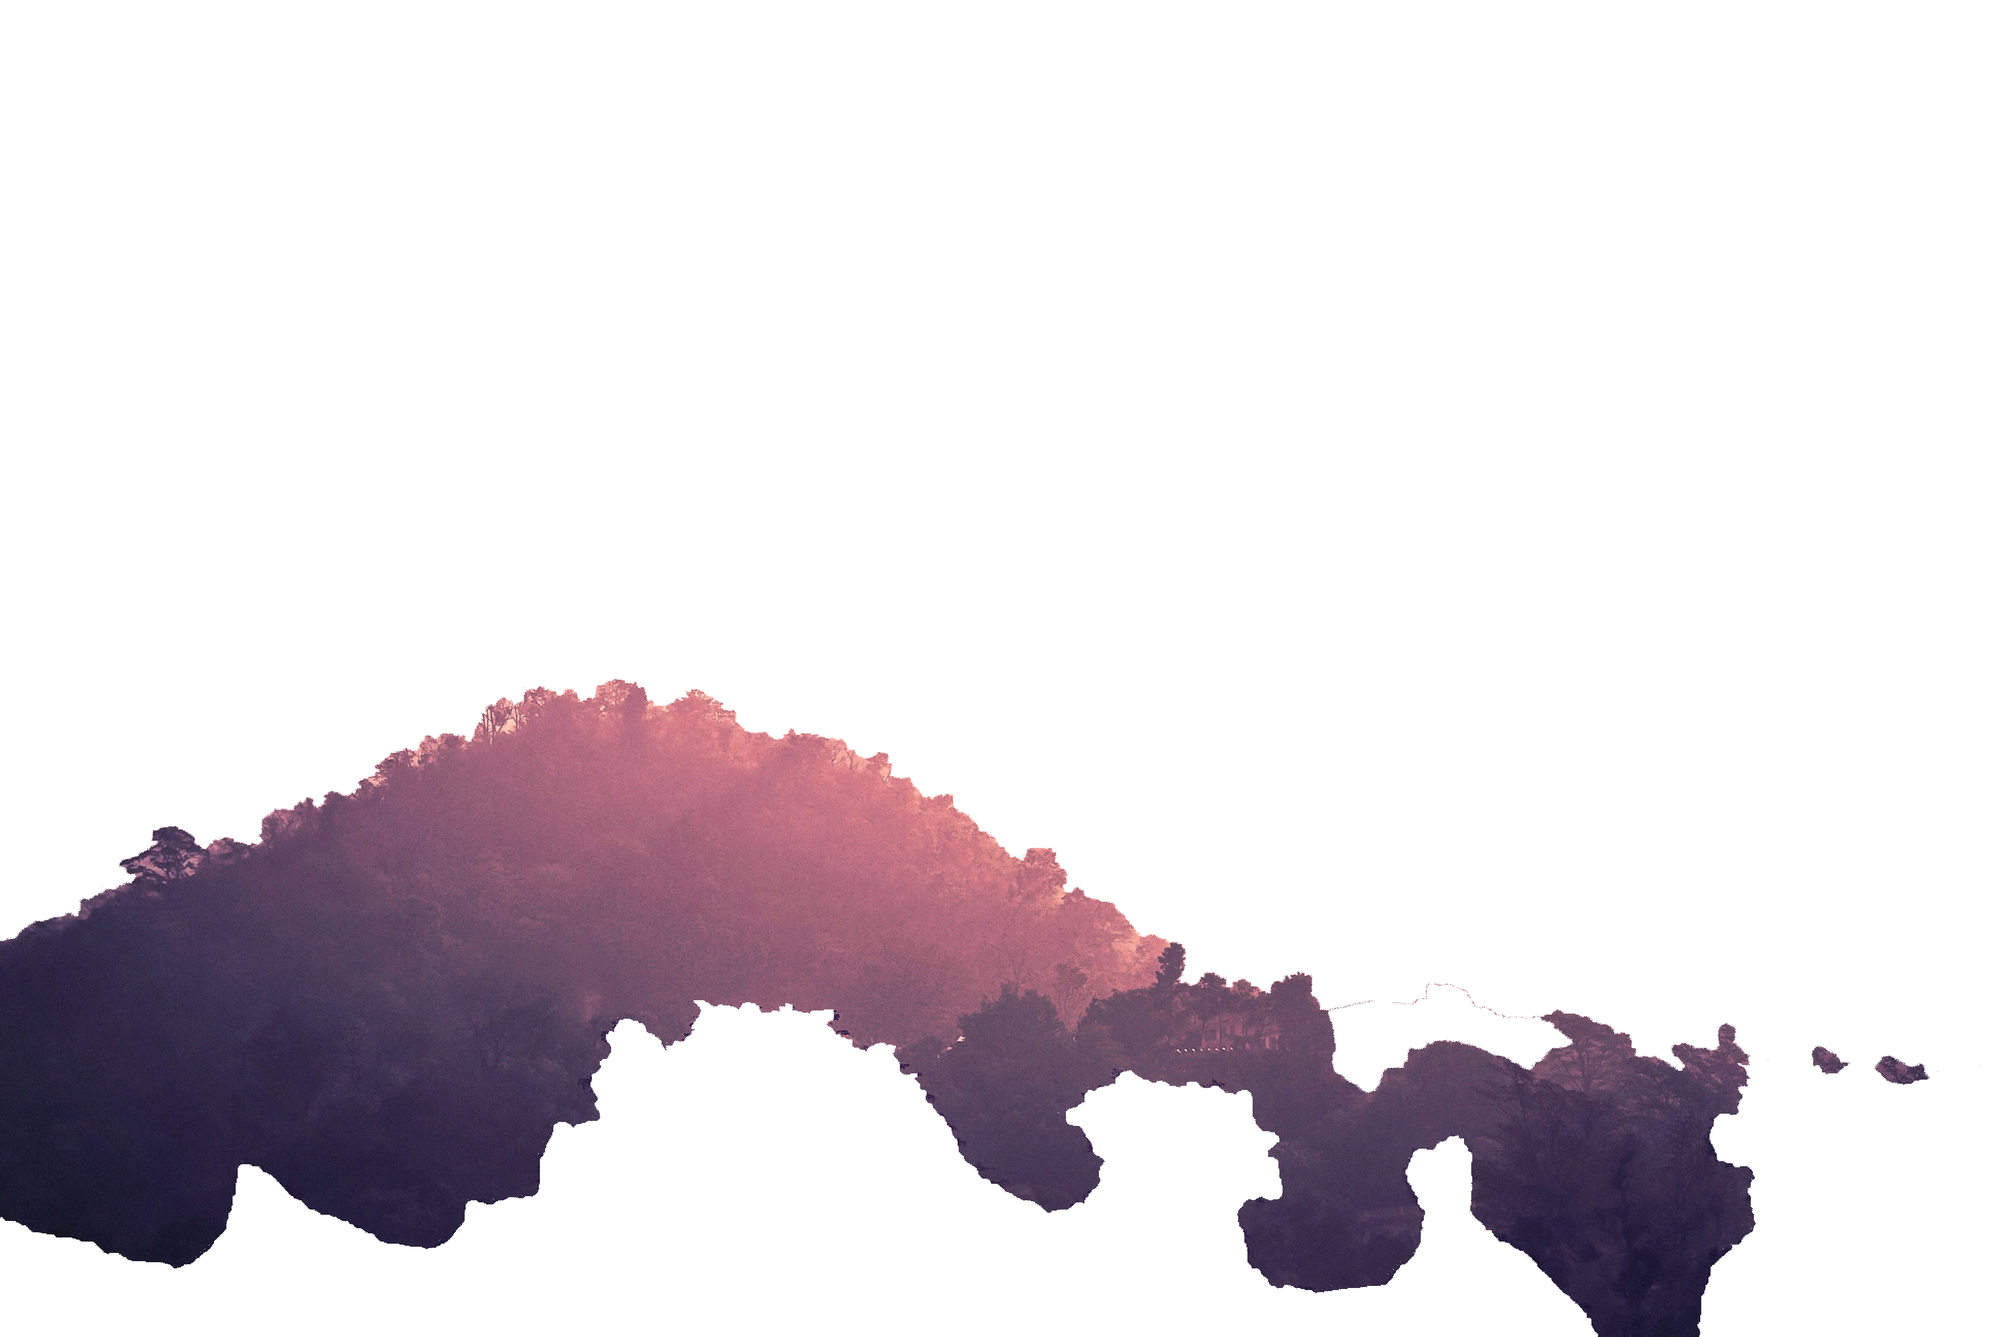
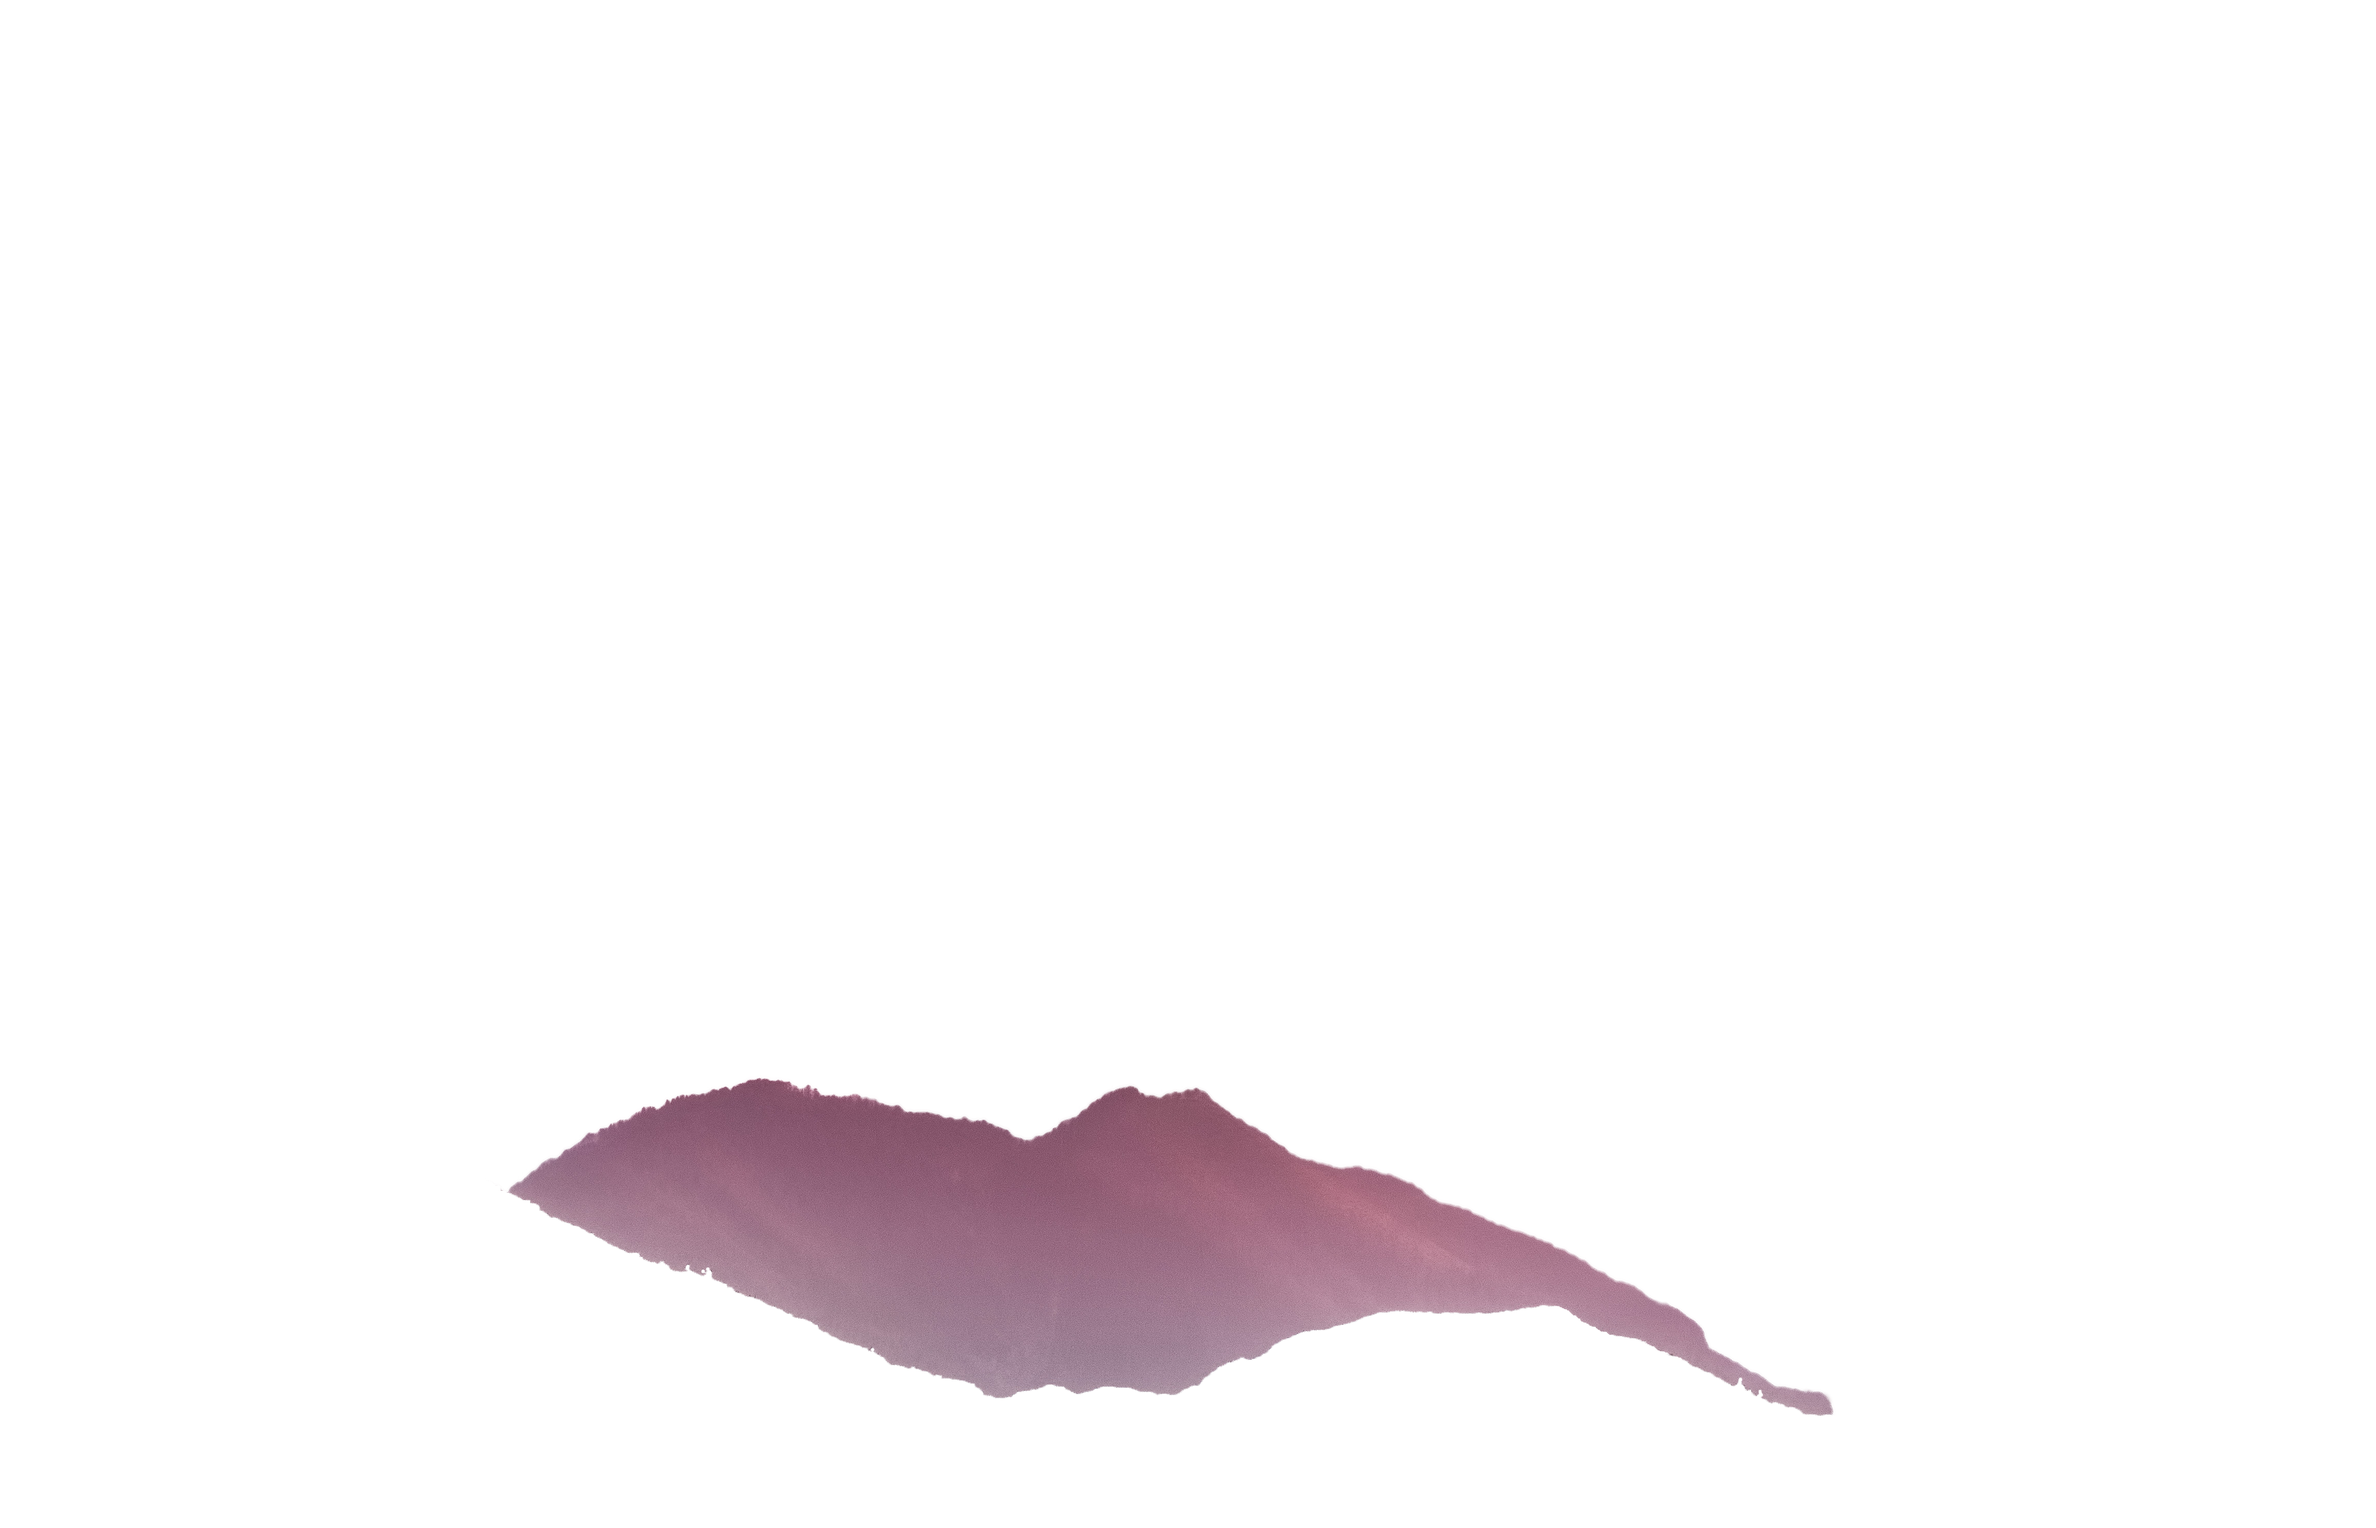
image positioning fixed

Changed region(s): [[0.0, 0.5, 0.8714, 1.0], [0.9025, 0.7812, 0.9648, 0.8125]]

diff --git a/test.css b/test.css
@@ -4,12 +4,12 @@
 
 html,
 body {
-  background-color: #fedcc8;
+  background-color: #cab6ab;
 }
 
 img {
-  max-width: 100%;
   height: auto;
+  width: 100%;
 }
 
 .parallax {
@@ -40,7 +40,8 @@ img {
 }
 
 .parallax__cover {
-  background: #2d112b;
+  background: #2b2a38;
+
   display: block;
   position: absolute;
   top: 100%;
@@ -56,31 +57,38 @@ img {
 }
 
 .parallax__layer__1 {
+  top: 1px;
   -webkit-transform: translateZ(-250px) scale(3.5);
   transform: translateZ(-250px) scale(3.5);
 }
 
 .parallax__layer__2 {
+  top: 4px;
   -webkit-transform: translateZ(-200px) scale(3);
   transform: translateZ(-200px) scale(3);
 }
 
 .parallax__layer__3 {
+  top: 8px;
   -webkit-transform: translateZ(-150px) scale(2.5);
   transform: translateZ(-150px) scale(2.5);
 }
 
 .parallax__layer__4 {
+  top: 10px;
   -webkit-transform: translateZ(-100px) scale(2);
   transform: translateZ(-100px) scale(2);
 }
 
 .parallax__layer__5 {
+  /* position: relative; */
+  top: 20px;
   -webkit-transform: translateZ(-50px) scale(1.5);
   transform: translateZ(-50px) scale(1.5);
 }
 
 .parallax__layer__6 {
+  top: 10px;
   -webkit-transform: translateZ(0px) scale(1);
   transform: translateZ(0px) scale(1);
 }

diff --git a/index.html b/index.html
@@ -15,7 +15,7 @@
   <body>
     <div class="parallax">
       <div class="parallax__layer parallax__layer__0">
-        <!-- <img src="images/layer1.png" /> -->
+        <img src="images/layer7.png" />
       </div>
       <div class="parallax__layer parallax__layer__1">
         <img src="images/layer6.png" />
